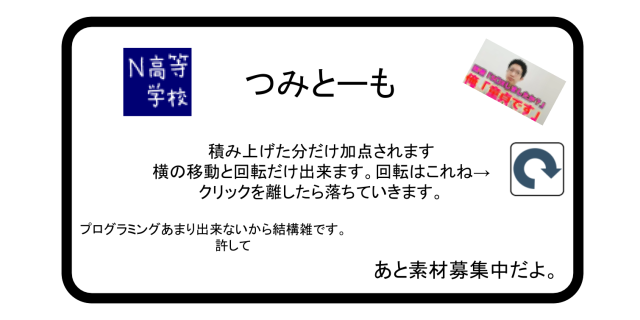
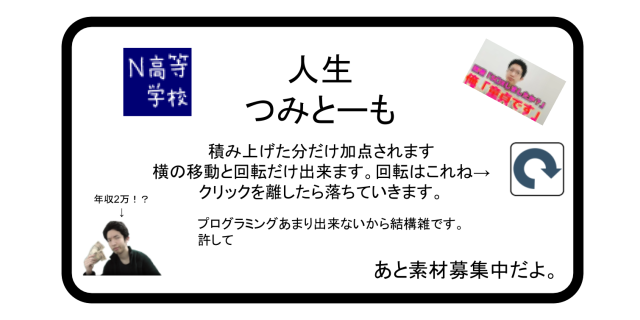
人生詰みトーもにする

diff --git a/src/main.ts b/src/main.ts
@@ -14,7 +14,7 @@ export function main(param: GameMainParameterObject): void {
 		assetIds: [
 			"toomo", "kiyomizu", "n_kou", "result", "doutei_toomo", "inu", "gozyou", "korean", "kiyomizu", "rotate",
 			// tslint:disable-next-line: max-line-length
-			"doumo_toomo", "gogo_no_zyugyou", "hattastu_syougai", "karaoke_ikuka", "katsudon_channel", "korean_sound", "n_kou_taigaku", "san_ryuunen", "teacher_block"
+			"doumo_toomo", "gogo_no_zyugyou", "hattastu_syougai", "karaoke_ikuka", "katsudon_channel", "korean_sound", "n_kou_taigaku", "san_ryuunen", "teacher_block", "kanemoti"
 		]
 	})
 
@@ -240,8 +240,18 @@ export function main(param: GameMainParameterObject): void {
 					box.vec2(-5, -37)
 				]
 			}
+			const kanemoti: BodyObject = {
+				assetSrc: "kanemoti",
+				bodyName: "年収2万円",
+				sharpList: [
+					box.vec2(0, -31.5),
+					box.vec2(47, 31.5),
+					box.vec2(-47, 32.5),
+					box.vec2(-14, -31.5)
+				]
+			}
 			// 利用可能な物体一覧
-			const bodyTemplateList = [nKou, dt, toomo, remon, gozyou, korean, kiyomizu]
+			const bodyTemplateList = [nKou, dt, toomo, remon, gozyou, korean, kiyomizu, kanemoti]
 
 			/** 一番高いところにある物体の高さを取得します。
 			 * @param defaultValue もし取れなかった場合は返り値になります

diff --git a/atarihantei.html b/atarihantei.html
@@ -9,7 +9,7 @@
 </head>
 
 <body>
-    <img id="img" src="image/kiyomizu.png">
+    <img id="img" src="image/kanemoti.png">
     <input type="button" id="reset" value="リセット">
     <div id="source"></div>
 </body>
